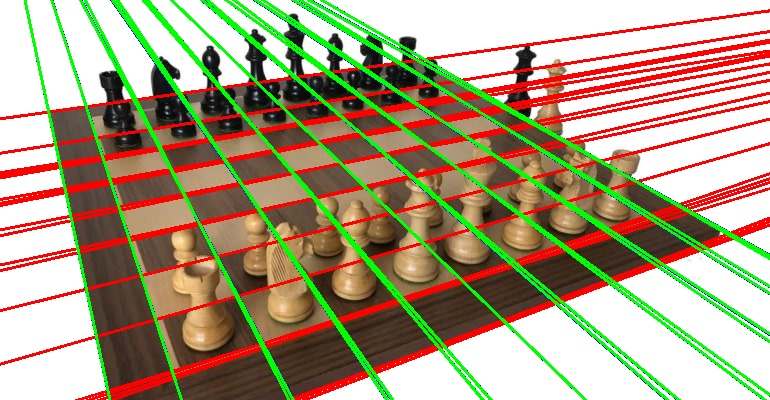
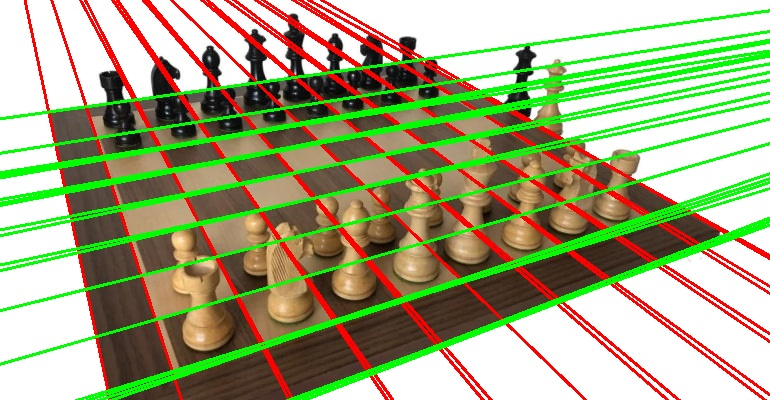
fix vari in call

diff --git a/martin/chessboard_detection.py b/martin/chessboard_detection.py
@@ -44,8 +44,15 @@ def find_board(fname, output_name, verbose_show=False, verbose_output=False):
 
     # Hough line detection
     lines = cv2.HoughLines(edges, 1, np.pi/180, 100)
+    chessLines = ChessLines(lines)
     
-    chessLines = ChessLines(lines, cluster_type = "KmeansLines")
+    imgcopy = img.copy()
+    if verbose_show:
+        output_lines(imgcopy, chessLines.lines, (0,0,255))
+        cv2.imshow("lines", imgcopy)
+        cv2.waitKey(0)
+    
+    
     
     # Horizontal and Vertical lines
     
@@ -60,10 +67,6 @@ def find_board(fname, output_name, verbose_show=False, verbose_output=False):
     hLinesCLustered = hLines
     vLinesCLustered = vLines
     
-    # clustering linee con kmeans
-    #chessLines.cluster('KmeansLines')
-    # hLinesCLustered = chessLines.getHLinesClustered
-    # vLinesCLustered = chessLines.getVLinesClustered
     
     # clustering linee manuale
     w, h = img.shape[0] , img.shape[1]
@@ -71,13 +74,16 @@ def find_board(fname, output_name, verbose_show=False, verbose_output=False):
     hLinesCLustered = chessLines.getHLinesClustered()
     vLinesCLustered = chessLines.getVLinesClustered()
     
-
-    imgcopy = img.copy()
-    output_lines(imgcopy, hLinesCLustered, (0,0,255))
-    output_lines(imgcopy, vLinesCLustered, (0,255,0))
-    #cv2.imshow("clustered lines", imgcopy)
-    #cv2.waitKey(0)
+        
+    # linee clustered
+    if verbose_show:
+        imgcopy = img.copy()
+        output_lines(imgcopy, hLinesCLustered , (0,0,255))
+        output_lines(imgcopy, vLinesCLustered, (0,255,0))
+        cv2.imshow("clustered lines", imgcopy)
+        cv2.waitKey(0)
     
+    # not clustered
     # create output of the hough lines found (not clustered) onto the img
     if verbose_output:
         output_lines(img, hLines , (0,0,255))
@@ -87,10 +93,24 @@ def find_board(fname, output_name, verbose_show=False, verbose_output=False):
         cv2.imwrite(output, img)
     
     # calcolo intersezioni
-    #points = intersections(h, v)
-
+    points = intersections(hLines, vLines)
+    if verbose_show:
+        for point in points:
+            x, y = (point[0], point[1])
+            cv2.circle(img, (int(x),int(y)), radius=2, color=(255, 0, 0), thickness=2)
+        cv2.imshow("points", img)
+        cv2.waitKey(0)
+    
     # Cluster intersection points
-    #points = cluster(points)
+    if True:
+        avg_dist = np.abs(np.min(chessLines._v[:,2]) - np.max(chessLines._v[:,2]))/55
+        points = cluster(points, max_dist=avg_dist)
+        for point in points:
+            x, y = (point[0], point[1])
+            cv2.circle(img, (int(x),int(y)), radius=2, color=(0, 0, 255), thickness=2)
+        cv2.imshow("clustered points", img)
+        cv2.waitKey(0)
+    
     
     # Find corners
     #img_shape = np.shape(img)
@@ -109,7 +129,7 @@ def find_board(fname, output_name, verbose_show=False, verbose_output=False):
 
 
 def main():
-    input_imgs = glob.glob('./martin/input/*')
+    input_imgs = glob.glob('./martin/input/**')
     print(input_imgs)
 
     for input_img in input_imgs:
@@ -119,7 +139,7 @@ def main():
         print(f"file found: {input_img}")
         imgname = input_img.split('\\')[-1]
     
-        find_board(input_img, f"{'output_' + imgname}",verbose_show=False ,verbose_output=True)
+        find_board(input_img, f"{'output_' + imgname}",verbose_show=False, verbose_output=False)
         #cv2.imwrite('crop.jpg', find_board('./martin/input/1.jpg', '1'))
 
 

diff --git a/martin/ChessLinesClustering.py b/martin/ChessLinesClustering.py
@@ -109,10 +109,15 @@ class ChessLines():
 
     def _manualClustering(self, image=None, w=800, h=800, verbose=False):
         
-        self._h = self._addInterceptionsToLines(self._h)
-        self._v = self._addInterceptionsToLines(self._v)
+        mh, self._h = self._addInterceptionsToLines(self._h, image=image, w=w, h=h, verbose=verbose)
+        mv, self._v = self._addInterceptionsToLines(self._v, image=image, w=w, h=h, verbose=verbose)
         
-        # TODO: understand which line are real horizontal and vertical by m angular coef
+        
+        # horizontal have m of vertical, wrong, so swap
+        if np.abs(mh) > np.abs(mv):
+            tmp = self._v
+            self._v = self._h
+            self._h = tmp
         
         # TODO: sort horizontal lines with _sortLinesByIntersectionOnAxisY()
         # TODO: sort vertical lines with _sortLinesByIntersectionOnAxisX()
@@ -157,6 +162,7 @@ class ChessLines():
         # vars of the previous line for the loop so that can be compared to the current one
         m_old = None
         c_old = None
+        m_sum = 0
         prev_line = None
         prev_intersectionX = None
         intersections = np.ndarray(shape=(1,2), dtype=np.float32)
@@ -175,7 +181,11 @@ class ChessLines():
             y2 = int(y0 - 1000 * (np.cos(theta)))
             
             """ y = mx + c """
-            m = float(y2 - y1) / (x2 - x1)
+            #TODO find a better solution for division by zero 
+            if x2-x1 != 0:
+                m = float(y2 - y1) / (x2 - x1)
+            else:
+                m = 20000
             c = (y2 - (m * x2))
             coefficients = [m, c]
             intersectionX = line_intersection(m, c, 0, w)[0]
@@ -200,11 +210,14 @@ class ChessLines():
             
             # remember as next previous line
             m_old = m
+            m_sum += m
             c_old = c
             prev_line = [rho, theta]
             prev_intersectionX = intersectionX
         
-        return np.append(lines, intersections[1:], axis=1)
+        
+        m = m_sum / lines.shape[0]
+        return m, np.append(lines, intersections[1:], axis=1)
         
         #TODO return m angular coef, mean or last (shoulb be good enough)
 

diff --git a/martin/chessboard_detection_functions.py b/martin/chessboard_detection_functions.py
@@ -108,16 +108,17 @@ def four_point_transform(img, points, square_length=SQUARE_SIDE_LENGTH):
 
 
 def output_lines(img, lines, color):
-        for rho, theta in lines:
-            a = np.cos(theta)
-            b = np.sin(theta)
-            x0 = a*rho
-            y0 = b*rho
-            x1 = int(x0 + 4000*(-b))
-            y1 = int(y0 + 4000*(a))
-            x2 = int(x0 - 4000*(-b))
-            y2 = int(y0 - 4000*(a))
-            cv2.line(img,(x1,y1),(x2,y2),color,2)
+    for line in lines:
+        rho, theta = line[0], line[1]
+        a = np.cos(theta)
+        b = np.sin(theta)
+        x0 = a*rho
+        y0 = b*rho
+        x1 = int(x0 + 4000*(-b))
+        y1 = int(y0 + 4000*(a))
+        x2 = int(x0 - 4000*(-b))
+        y2 = int(y0 - 4000*(a))
+        cv2.line(img,(x1,y1),(x2,y2),color,2)
 
 def split_board(img):
     """
